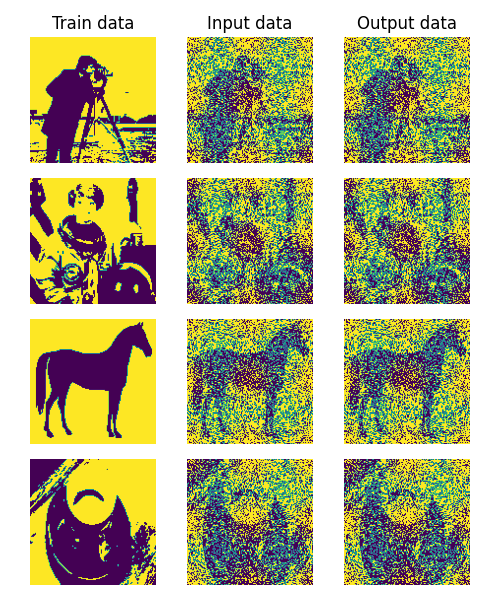
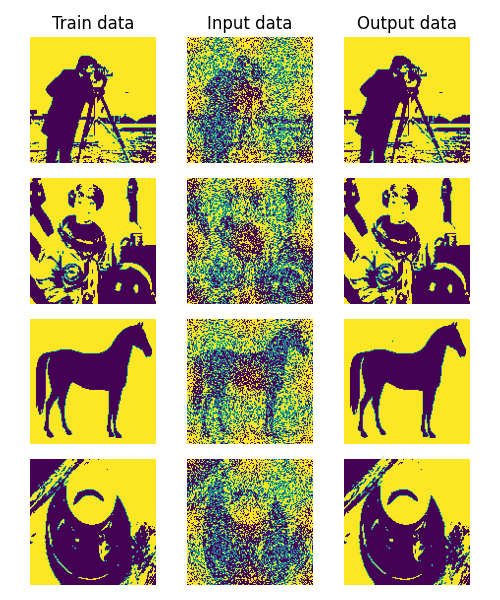
Add convergence condition

Changed region(s): [[0.69, 0.3, 0.96, 0.99], [0.69, 0.06, 0.96, 0.27]]

diff --git a/boltzmann_network.py b/boltzmann_network.py
@@ -10,8 +10,6 @@ from matplotlib import pyplot as plt
 import matplotlib.cm as cm
 from typing import List
 
-###
-
 def neighbours(input_data: np.ndarray, site: int) -> List[np.ndarray]:
     """Return neighbouring spin values alng with their indicies
     [<left>, <right>, <above> , <below>].
@@ -38,7 +36,6 @@ def neighbours(input_data: np.ndarray, site: int) -> List[np.ndarray]:
     idx = np.array([left, right, up, down])
 
     return [values, idx]
-#########
 
 class BoltzmannNetwork(object):      
     """ Run a Hopfield Neural Network
@@ -116,7 +113,6 @@ class BoltzmannNetwork(object):
         
         # Iteration
         for i in range(self.num_iter):
-            print(s)
             for j in range(15):
                 # Select random neuron
                 idx = np.random.randint(0, self.num_neuron) 
@@ -130,8 +126,8 @@ class BoltzmannNetwork(object):
             e_new = e + delta_energy
             
             # s is converged
-            #if e == e_new:
-            #    return s
+            if np.abs(delta_energy) < 1:
+                return s
             # Update energy
             e = e_new
         return s

diff --git a/boltzmann_train.py b/boltzmann_train.py
@@ -15,9 +15,6 @@ from skimage.transform import resize
 import boltzmann_network as bn
 
 # Utils
-# TODO: (line 16 of the main function) Make the test input a Lattice2D object
-# It will probably be better to do this in another file so it wont effect the
-# original program
 def get_corrupted_input(input, corruption_level):
     corrupted = np.copy(input)
     inv = np.random.binomial(n=1, p=corruption_level, size=len(input))
@@ -90,7 +87,7 @@ def main():
     # Generate testset
     test = [get_corrupted_input(d, 0.3) for d in data]
 
-    predicted = model.predict(test, num_iter=4, threshold=0, asyn=False)
+    predicted = model.predict(test, num_iter=40, threshold=0, asyn=False)
     print("Show prediction results...")
     plot(data, test, predicted)
     print("Show network weights matrix...")
